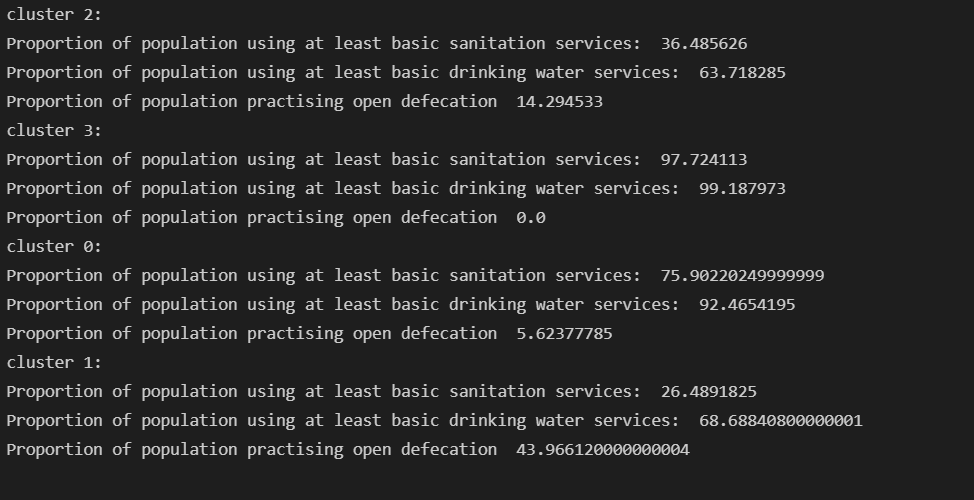
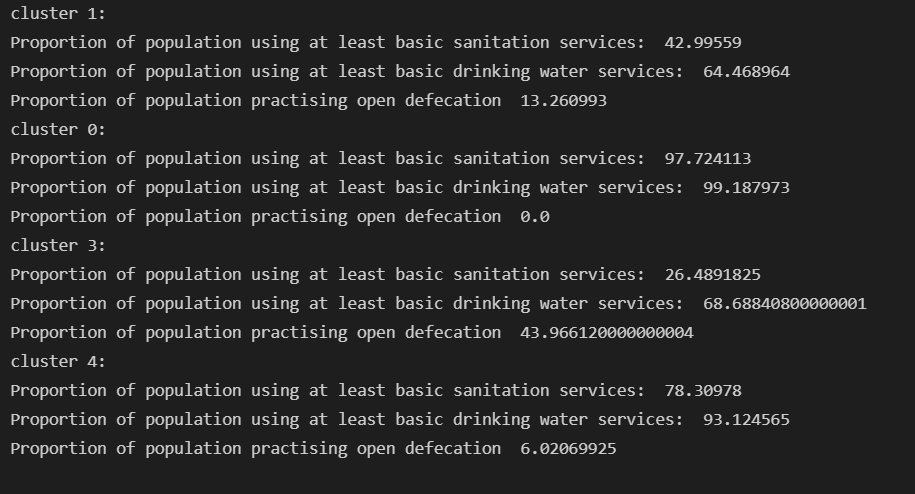
readme update image clustering

diff --git a/final/README.md b/final/README.md
@@ -278,6 +278,8 @@ SELECT Mortality.country, Mortality.year, Mortality.Tuberculosis, S.OBS_VALUE FR
 
 > Pelos valores acima, foi possível evidenciar diferenças relevantes nos índices de cada cluster. Indicando sucesso no agrupamento por similaridade entre os países.
 
+> Vale lembrar que a cada momento que executamos o algoritmo, é gerado um novo conjunto de clusters diferente.
+
 
 
 ### Perguntas/Análise Propostas mas Não Implementadas
